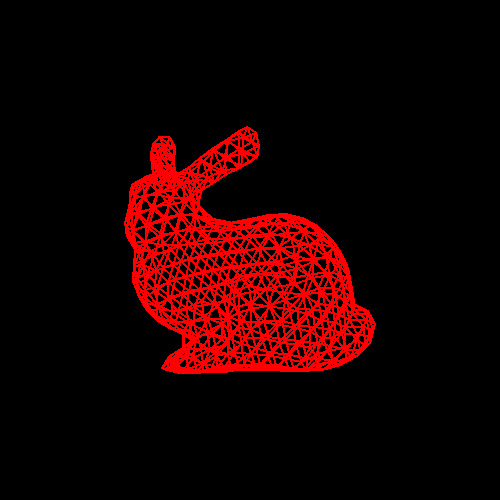
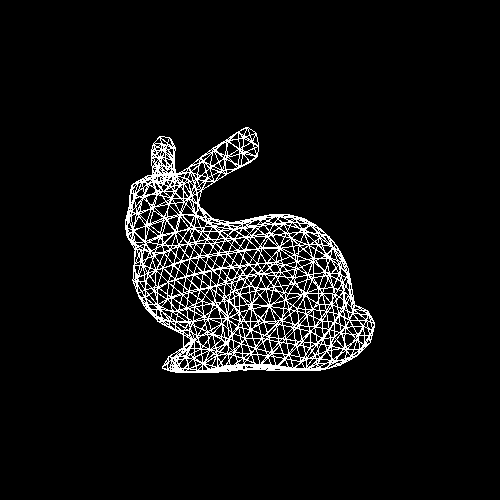
feat: depth

Changed region(s): [[0.24, 0.24, 0.75, 0.75]]

diff --git a/src/main.cpp b/src/main.cpp
@@ -21,6 +21,7 @@ void render_scene(const Scene &scene, int shading_option) {
 
 	// Global Constants (empty in this example)
 	UniformAttributes uniform;
+	uniform.color << 1,1,1,1;
 
 	// Basic rasterization program
 	Program program;
@@ -34,23 +35,34 @@ void render_scene(const Scene &scene, int shading_option) {
 	// The fragment shader uses a fixed color
 	program.FragmentShader = [](const VertexAttributes& va, const UniformAttributes& uniform)
 	{
-		return FragmentAttributes(1,0,0);
+		FragmentAttributes out(uniform.color(0),uniform.color(1),uniform.color(2),uniform.color(3));
+		out.position = va.position;
+		return out;
 	};
 
 	// The blending shader converts colors between 0 and 1 to uint8
 	program.BlendingShader = [](const FragmentAttributes& fa, const FrameBufferAttributes& previous)
 	{
-		return FrameBufferAttributes(fa.color[0]*255,fa.color[1]*255,fa.color[2]*255,fa.color[3]*255);
+		// Camera is at (0,0,-1)
+		// z smaller, closer the object
+		if (fa.position[2] < previous.depth) {
+			FrameBufferAttributes out(fa.color[0]*255, fa.color[1]*255, fa.color[2]*255, fa.color[3]*255);
+			out.depth = fa.position[2];
+			return out;
+		} else {
+			return previous;
+		}
 	};
 
 	switch (shading_option) {
 		// Wireframe
 		case 1: {
-			rasterize_lines(program, uniform, get_meshes_vertices(scene, "lines"), 1, frameBuffer);
+			rasterize_lines(program, uniform, get_meshes_vertices(scene, "lines"), 0.5, frameBuffer);
 			break;
 		}
 		// Flat shading
 		case 2: {
+			rasterize_triangles(program, uniform, get_meshes_vertices(scene, "triangles"), frameBuffer);
 			break;
 		}
 		// Per-vertex shading

diff --git a/src/attributes.h b/src/attributes.h
@@ -37,6 +37,7 @@ class FragmentAttributes
 	}
 
 	Eigen::Vector4f color;
+	Eigen::Vector4f position;
 };
 
 class FrameBufferAttributes
@@ -45,12 +46,17 @@ class FrameBufferAttributes
 	FrameBufferAttributes(uint8_t r = 0, uint8_t g = 0, uint8_t b = 0, uint8_t a = 255)
 	{
 		color << r,g,b,a;
+		// this value should be between -1 and 1
+		// 2 is further than the visible range
+		depth = 2; 
 	}
 
 	Eigen::Matrix<uint8_t,4,1> color;
+	float depth;
 };
 
 class UniformAttributes
 {
 	public:
+	Eigen::Vector4f color;
 };
